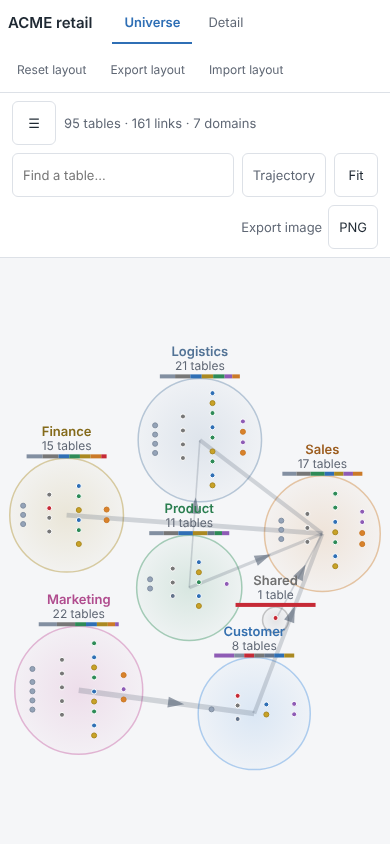
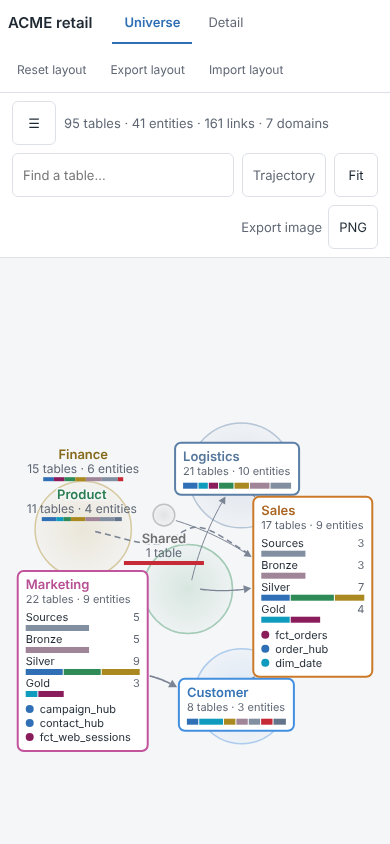
docs(docs): retake the screenshots and close M8
The seven screenshots of the example are retaken on the page as M8
leaves it, and two images of the generated large project join them:
its overview (summary cards, the source systems card, routes) and the
skeleton of its vehicle group. The recipe gives the commands. Progress
records the audit, the fixes that followed and what waits for the
user: the approval of the screenshots, D-072, the points settled
where the brief left them open, and what remains of findings 5 and 6.

Milestone: M8.5

Claude-Session: https://claude.ai/code/session_01SqA5qnr2e821Rq5c737Dbk

diff --git a/docs/progress.md b/docs/progress.md
@@ -38,15 +38,26 @@ Maintained by the `/build-roadmap` skill. Branch: a feature branch per session, 
 | M8.3 Summary cards | done | `f5ac0ce` (+ tests `a7ce2f4`, review fixes `f7e50d5`) | Built per `docs/architecture/2026-11-12-m8.3-summary-cards.md` (D-063, D-064), brief `docs/briefs/2026-11-12-m8-synthesis.md` § 7. **Calibration measured**: star cell 59.3 world px (large) / 53.2 (acme); `k·cell` at Fit: large 9.45 at 1280 × 800 and 5.66 at 360 → cards; acme 23.89 at 1280 → stars, 13.57 at 360 → cards (3 % under the threshold: a phone opens acme on seven readable cards); `SUMMARY_CELL` 14 and `SUMMARY_FADE` 1.3 unchanged. **Measures on the large project at 1280 × 800**: 12 cards at Fit, all at level `rows`, the business cards list 4, 3, 5, 3, 5 main tables; stars drawn at Fit 0 (933 when zoomed in, folded; 1,374 before M8); largest card shift 14 px (26 px at 360); card computation 3.4 ms, card placement 0.3 ms (0.9 ms at 360; about 7 ms median with 50 domains after the cost fix, budget 15); frame 0.7 ms with cards, 4–11 ms mid-fade; filter change 49 ms; page open 341 ms; the 1,500-table payload opens on 30 cards. **Payloads: no change** (reference payloads byte-identical). Reference pages regenerated **twice**: once for the feature (+26.9 kB of assets per page; `none` 171,313 → 198,227 bytes) and once for the review fixes (+1,664 bytes, assets only). Review loop 1: one blocking finding (the "is an entity" rule written twice, now `isEntity`) fixed, plus the empty-pill cards. Suites: default 870 passed / 4 skipped; browser 459 (374 before). **Points settled without the user, to review**: cards sized by content and pushed apart on screen instead of the brief's "about its footprint" (the inscribed rectangle was 92 × 69 px for a 96-table domain: unreadable), so **card size does not show domain size** (counts and the disc behind do, and discs are not ordered by table count: activity 89 has a larger disc than claim 96); one page-wide threshold, not per constellation; no hysteresis; entity clause omitted on cards without entities; a card with too little room keeps the disc's own label instead of a pill; the text summary is a closed `<details>` at the end of the panel; cards stay in `universe.js` (a "Later" line in the roadmap records splitting the file). **Known limits**: mid-fade shows card text over star names for about two wheel notches; on a phone the routes are mostly hidden under cards (M8.4); bars are relative to the card's largest row, so small rows have short bars; trajectory frame colours and the row hover tint are not covered by tests. |
 | M8.4 Source systems apart, readable routes | done | `a64d0dc` (+ tests `5349e2b`, review fixes `45d2cb7`) | Built per `docs/architecture/2026-11-12-m8.4-source-systems-routes.md` (D-065, D-066, D-067), brief § 8. **Measures on the large project** (links `both`, 1280 × 800): routes crossing a constellation they do not start from or end at, at Fit: **24 of 45 before** (straight centre-to-centre routes crossing another card; 22 crossing a disc) → **0 after**; also 0 at the stars scale, with All routes, with the focus on each constellation, in layer mode, and at 360 px with the strongest routes (one `blocked` route at 360 px with All routes; on the 1,500-table payload with all 210 routes about 140 stay `blocked`: no way round exists, they are drawn and flagged). Routes drawn: 9 of 15 at Fit (15 once the system routes are bundled through the group card), 20 of 45 at the stars scale. Cards at Fit: 6 (5 business + 1 group card "7 systems · 504 tables") instead of 12. Fit scale 0.160; route computation 3.1 ms at Fit, 2.7 ms at stars; frame 0.6 ms / 9.5 ms; filter change 43 ms; page open 413 ms; page 943 kB before the review fixes (+ about 4 kB after). Flow order of business domains, mean x by rank: 1042, 1799, 2585, 3113, 3896 (account → vehicle → auction → claim → activity). **Payloads**: each universe domain gains `system` (last key, `false` written out; `true` on `raw` and `staging` of the data_vault reference case and `staging` of star_schema); +59 to +75 bytes. Reference pages regenerated **twice**: once for the feature (+49 kB of assets per page; `none` 199,891 → 249,381 bytes) and once for the review fixes (assets only, about +4 kB). The large test project gained business-to-business lineage (`FLOW` in `tests/large_project.py`; lineage count unchanged at 1,360). The golden acme fixture was regenerated (placement along the flow; stage 6 px shorter since the meta line may wrap). Review loop 1: two blocking findings fixed ("No domain" in the every-domain guard; direction on relations-only routes). Suites: default 901 passed / 4 skipped; browser 547 (459 before; one duplicate test removed in the second review), 0 xfailed. **Points settled without the user, to review**: the rule's gate "the config gives a role to at least one kind" (a no-preset page never has source systems) and "never every domain"; `system` on a domain rule overrides whatever resolved the domain; acme_retail's Shared domain gets `system: false` (a lone calendar seed), so the example has no source system; two routes per constellation instead of the brief's three (three gave a hairball at the stars scale: 27 of 45); route ink `#7b8494`, 1–3 px; the All routes choice is not remembered and has no config key; keyboard focus goes through the Domains rows and the text summary; `flowX` 0.1 (on acme_retail ranks 0 and 1 keep swapped mean x until 0.25, but no directed route runs right to left); business domains are re-placed for every project (unpinned domains move against pre-M8.4 pages; pins and saved arrangements win). **Known limits**: at 360 px on the large project some constellation labels sit detached from their disc (up to about 200 px) and cards drop levels; acme_retail at 360 px shows fewer card rows than in M8.3 (placement spreads the domains); the page shows no count of `blocked` routes (hook only); with All routes at the stars scale parallel system routes bunch into bands; the panel dots of source systems keep their domain colours while the canvas is neutral. **Brief findings 5 and 6**: 5 (layers grouping: the raw vault as one disc, no flow between layers) is partly answered: folding (M8.2) halves the raw vault's stars and the layer card (M8.3) gives its composition by domain, but no flow is drawn between the layers and a relation-driven placement of the raw vault is out of scope; 6 (inside a domain, relations are long lines crossing every column) is partly answered: links of folded tables are no longer drawn inside the domain, but hubs and links are still placed by layer band, not by their relations. |
 | M8.5 Detail skeleton | done | `06de3f1` (+ tests `38b0b1c`, review fixes `42297c8`) | Built per `docs/architecture/2026-11-12-m8.5-detail-skeleton.md` (D-068 to D-072; measurement table and deviations in its § Built), brief § 9. **Shape measured** (1280 × 800, `vehicle`, three inputs; rule of D-071): O1 pack + compress aspect 0.14, refused; **O2 dot with imposed rows, TB: aspect 1.32, 384 ms cold, names 4.45 px at Fit, 6.74 px after three notches**, chosen; O2-LR aspect 0.73 with more crossings; O3 grid + neato 2.5 s, and not finishing on the larger cases; O4 neato and O5 fdp accepted on aspect, names 2.3–3.5 px (after three notches); `sfdp` is not in this Viz.js. **Measures on `vehicle` at 1280 × 800**: tables drawn **283 before (271 own + 12 dashed of other groups) → 148 in the skeleton (136 own + 12 dashed)**; relations drawn 273 → 138; aspect **0.11 → 1.32**; layout 0.38–0.42 s cold / 0.14–0.19 s warm (budget 5 s); names **0.64 px at Fit before → 4.45–4.48 px**, 0.97 → 6.74 px after three wheel notches, 17–18 px after a double-click on a hub (focus: itself, its satellite, its 4 links, the 4 hubs across); "All groups" 367 drawn of 788 in 0.46 s; the 1,500-table case 1.1 s (budget 15 s); page size +14,656 bytes for the feature. **Payload**: each detail entity gains `parent` (last key; null in every reference case), +14 bytes per entity; reference pages regenerated **twice**: once for the feature (`none` 253,443 → 268,099 bytes) and once more for the review fixes (assets only, +765 bytes). Acme's detail DOT is identical to the pre-M8.5 one for every group (`tests/fixtures/acme_retail/detail-dot/`). Review loop 1: two blocking findings fixed (a folded table with no relation was absent from its parent's focus; the fold wording is written in both views). Suites: default 916 passed / 4 skipped; browser 617 passed, run serially as documented (547 before). **Points settled without the user, to review**: **D-072, awaiting the user's confirmation**: the `data_vault` preset's `select` is unchanged, dimensions and facts stay out of the detail by default (adding them would draw an unconnected second block and push `vehicle` to 149 own tables; reversible in one line of `src/dbtscope/presets/data_vault.yml`); the brief's "136 tables or fewer" is read as the group's own tables (12 dashed tables of other groups are drawn too: 148); threshold 60 is a constant, no config key; one fold choice for both views; the folded row's wording ("+ 3 folded tables · Satellite", at most two kinds); a parent in another group or outside the select scope gives no parent in the detail; the focus rule through connectors applies to every page with a connector kind; the skeleton shape applies whenever the scope can fold, even when a kind filter leaves no folded row. **Known limits**: names reach 6.74 px after three wheel notches, under the designer's 8 px goal and above its 6 px floor (the brief's "one double-click **or** three notches" is met by the double-click: 17 px); 120 edge crossings in the `vehicle` skeleton; "All groups" of the large project is a structure overview only (names 2.4 px at Fit); at 360 px the skeleton at Fit is not legible without zooming; the layout depends on the window's aspect, so a position dragged at one window size may overlap at another; titles of tables from other groups can overflow their header (older than M8.5); browser timing tests are reliable only in the documented serial run. **Brief finding 7** (the detail of a large group is an unreadable strip): answered. Findings 5 and 6: as written at M8.4 (partly answered, no flow between layers, no relation-driven placement inside a domain). |
+| M8 close: audit and screenshots | done | `cb44f5c`, `fd7ecc3` | `/audit` on 2026-11-13 (`docs/architecture/2026-11-13-audit.md`): 3 blocking, 22 to fix, 8 suggestions; every blocking and to-fix finding fixed except the one left to the user (the kind of a table decided once for the universe and once for the detail), follow-up in the report. A budget test of a few milliseconds now keeps the first quiet measurement of three (`test_trajectory_perf.steady`), so the whole suite also passes in parallel with coverage (1,533 passed, 4 skipped); no budget changed. The summary's `fold:` row says `441 tables folded into 251 parents` (the page's 428 entities are another count). Retaking the screenshots showed two defects, fixed with D-073: Fit keeps 8 px of margin and a detail drawing at its Fit follows its area when the toolbar wraps; a bare constellation label no longer prints over a card or another label. `docs/images/`: the seven images of the example retaken, `large-overview.png` and `large-detail-skeleton.png` added from the generated large project (recipe in `docs/images/README.md`); `large-stars.png` left out for the 1.2 MB budget. Reference pages regenerated twice more (audit fixes, D-073), assets only, payloads byte-identical. Suites: default 916 passed / 4 skipped; browser 637, run serially |
 
 ## Resume
 
-M8 was asked as "M7" and renumbered M8 (the user agreed on 2026-11-12). M8.1 to M8.5 are done. Next: `/audit`, the documentation screenshots (`docs/images`, brief § 10), the final summary. What remains of findings 5 and 6 (written at M8.4): 5 (layers grouping: the raw vault as one disc, no flow between layers) is partly answered, folding halves the raw vault's stars and the layer card gives its composition, but no flow is drawn between the layers; 6 (inside a domain, relations are long lines crossing every column) is partly answered, links of folded tables are no longer drawn, but hubs and links are still placed by layer band, not by their relations. Finding 7 (the detail of a large group): answered by M8.5.
+M8 was asked as "M7" and renumbered M8 (the user agreed on 2026-11-12). M8.1 to M8.5, the audit and the screenshots are done; nothing is left to build. Not done, on purpose: no pull request and no release (the user asks for them).
+
+**Waiting for the user** (none of it blocks):
+
+- Approve the screenshots: the before / after pairs of the universe at opening, a framed domain, the layers grouping and the detail of the `vehicle` group on the large project (brief § 7 Done-when 4, § 8 Done-when 2), and the nine images of `docs/images/`.
+- Confirm D-072: the `data_vault` preset's `select` is unchanged, dimensions and facts stay out of the detail by default (one line of `src/dbtscope/presets/data_vault.yml` to reverse).
+- Review the points the architect and the ui-designer settled where the brief left them open: listed in the rows M8.1 to M8.5 above ("points settled"), decisions D-058 to D-073.
+- Decide the audit's left finding: one rule for the kind of a table in both views (`domain/universe.py` gives a source, seed or snapshot its built-in kind and the role `technical`; `domain/detail.py` gives it `other`). One rule would change the detail payload of projects that draw sources in the detail.
+- Run what could not run here: the `live` wheel test (`tests/integration/test_wheel.py`, last run at 0.3.0) and the `DBTSCOPE_DBT` check of the example project (no dbt in this environment).
+
+**What remains of the brief's findings.** 5 (layers grouping: the raw vault as one disc, no flow between layers) is partly answered: folding halves the raw vault's stars and the layer card gives its composition by domain, but no flow is drawn between the layers, and the relation-driven placement of the raw vault is out of scope (brief § 3). 6 (inside a domain, relations are long lines crossing every column) is partly answered: links of folded tables are no longer drawn inside the domain, but hubs and links are still placed by layer band, not by their relations. Finding 7 (the detail of a large group) is answered by M8.5; findings 1 to 4 and 8 by M8.1 to M8.4.
 
 ## Open points
 
-- M8.1: the screenshots of `docs/images/` (universe-overview, universe-domain, trajectory, small-screen) still show the pre-M8 page. They are retaken once at the close of M8 (brief § 10), because every phase changes the page and the user approves them.
-- M8.3: the screenshots awaiting the user's approval (brief § 7 Done-when 4) were produced during the review. The committed `docs/images/large-overview.png` and the retake of the existing images are done once at the close of M8, after M8.4 changed the overview again (source-system group card, routes): M8.4 is done, so the retake is due at the close of M8.5.
+- M8: the screenshots of `docs/images/` were retaken on 2026-11-13 and await the user's approval; D-072 awaits the user's confirmation (see Resume).
+
 - M7.4: dbt Fusion's support of the global `--log-level` flag is unchecked.
 
 - M4.1: the export file-name fallback (a title that slugs to nothing) is covered only by browser tests, which do not run in CI.

diff --git a/docs/images/README.md b/docs/images/README.md
@@ -1,16 +1,18 @@
 # Documentation screenshots
 
-Screenshots of the page of the example project `examples/acme_retail`, used by the README and `docs/user-guide.md`. Approved by the user on 2026-11-05 (M6.1, design note `docs/architecture/2026-11-05-m6.1-documentation.md` § 7). Budget, checked by `tests/unit/test_docs.py`: each PNG at most 200 kB, the folder at most 1.2 MB, every image referenced by a document.
+Screenshots of the page of the example project `examples/acme_retail`, used by the README and `docs/user-guide.md`. Approved by the user on 2026-11-05 (M6.1, design note `docs/architecture/2026-11-05-m6.1-documentation.md` § 7); retaken on 2026-11-13 for M8, **the user's approval of this retake is pending**. Budget, checked by `tests/unit/test_docs.py`: each PNG at most 200 kB, the folder at most 1.2 MB, every image referenced by a document.
 
 | File | View and state | Used in |
 |---|---|---|
-| `universe-overview.png` | universe at opening (Fit), names level, every domain | README, user guide § What dbtscope is |
-| `universe-domain.png` | Sales domain framed as a double-click does, keys level | user guide § The universe view |
+| `universe-overview.png` | universe at opening (Fit), names level, every domain, fold on (the example opens on stars) | README, user guide § What dbtscope is |
+| `universe-domain.png` | Sales domain framed as a double-click does, keys level, satellites folded into their entity ("1 folded table") | user guide § The universe view |
+| `large-overview.png` | the generated large Data Vault project at opening (Fit), links `both`: summary cards of the five business domains, the Source systems group card and the routes | user guide § The universe view |
 | `trajectory.png` | trajectory of `fct_orders`, both directions, all levels, then Fit | § Trajectory |
 | `flow.png` | the flow of that trajectory, Fit | § Flow |
-| `detail-vault.png` | detail, group `sales`, key columns, kinds Fact and Dimension unticked (with them the dimension row and the vault block overlap, so no cut keeps every table whole), zoomed out one wheel step from Fit and cut below the last whole row of tables (1280 × 725) | § The detail view |
+| `detail-vault.png` | detail, group `sales`, key columns, kinds Fact and Dimension unticked (with them the dimension row and the vault block overlap, so no cut keeps every table whole), zoomed out one wheel step from Fit and cut below the last whole row of tables (1280 × 765) | § The detail view |
 | `detail-focus.png` | detail, group `customer`, focus on `dim_customer`, direct links, all columns, zoomed out three wheel steps from Fit | § The detail view |
-| `small-screen.png` | universe at 390 × 844, touch, panel closed | § Zoom, pan and touch |
+| `large-detail-skeleton.png` | the large project's detail, group `vehicle`, at opening: the skeleton (hubs and links, satellites folded into a last row), no focus | § The detail view |
+| `small-screen.png` | universe at 390 × 844, touch, panel closed (the example opens on summary cards at this size) | § Zoom, pan and touch |
 
 ## Retaking them
 
@@ -30,3 +32,15 @@ A page milestone that changes what an image shows retakes it. The text of the gu
 3. Optimise: keep the lossless PNG when it is within 200 kB; otherwise quantise it to 256 colours with dithering (for example Pillow: a fast-octree palette, then `quantize(palette=…, dither=FLOYDSTEINBERG)`, saved with `optimize=True`, or `pngquant --quality 70-90`). Look at each image before keeping it: the kind and domain colours must stay true.
 
 The M6.1 images were taken this way by a Playwright script and a Pillow script kept outside the repository (design note § 7, As built). All seven were retaken the same way on 2026-11-05 when the example became a medallion project (bronze, silver and gold layers, domains from schemas).
+
+The large-project images (`large-overview.png`, `large-detail-skeleton.png`) come from the test generator (D-060), at 1280 × 800, device scale 1:
+
+```bash
+SCRATCH=$(mktemp -d)               # any folder outside the repository
+uv run python -c "import sys; sys.path.insert(0, 'tests'); from pathlib import Path; from large_project import write_large_project; write_large_project(Path('$SCRATCH/large'))"
+uv run dbtscope --project-dir "$SCRATCH/large" --no-parse --no-open --offline -o "$SCRATCH/large.html"
+```
+
+`large-overview.png` is the page after 3 s, pointer parked at the bottom right (links `both` is the default); `large-detail-skeleton.png` is the Detail tab with the group `vehicle` selected, once the export buttons are enabled. A third image, one business domain framed by a double-click on its card (stars with badges), was left out: it did not fit the 1.2 MB budget.
+
+The seven M6.1 images were retaken on 2026-11-13 (M8: roles, fold, summary cards, the detail's skeleton); the two large-project images are new. The detail images keep their states, only the kind colours and the Types order changed. All nine were retaken again the same day after D-073 (Fit keeps 8 px on every side; a bare constellation label no longer prints over a card or another label).

diff --git a/docs/user-guide.md b/docs/user-guide.md
@@ -745,6 +745,8 @@ Every model, source, seed and snapshot of the project as a star, grouped into on
   - **For keyboards and screen readers**: the last section of the side panel, **Summary** ("Synthèse"), is closed by default; open it for every card as text, in left-to-right order, with a **Zoom** ("Cadrer") button per domain and one button per row, which zoom like a double-click and a row click.
 - **The same picture every time**: the same project gives the same placement at every generation.
 
+![A large Data Vault project at Fit: five business domains as summary cards, the seven source systems as one Source systems card, and the routes between them](images/large-overview.png)
+
 ![The Sales domain at the keys level: sources and Bronze on the left, then Silver (hubs, links, satellites), then Gold (dimensions and facts)](images/universe-domain.png)
 
 ### Filters and links
@@ -802,6 +804,8 @@ The entity-relationship diagram of one group of tables, drawn by Graphviz.
 - **Columns**: key columns only by default (columns matching `key_columns`, plus every column used by a relation, in bold), with **All columns** for every column. Hover a table for its dbt description.
 - **Highlight**: click a table to highlight its links; type in **Highlight…** to mark tables by name.
 - **Large groups**: when more than 60 tables would be drawn and the kinds have roles ([presets](#conventions-presets-and-preset-files)), each descriptive table (a satellite) is drawn as the last row of its entity: "+ 3 folded tables · Satellite". The drawing keeps the hubs, links and other tables, in rows that fit the drawing area, and shows what it folded in the meta line. The panel's **Fold descriptive tables into their entity** checkbox (shown only for such a group) is the same choice as the universe's: changing it in one view changes the other, the browser remembers it, and `universe.fold` in `dbt-erd.yml` sets how both open. With it off the full drawing is shown and a line warns that it will be hard to read. Double-click a table to draw it with its folded tables; from a hub, **direct links** shows its satellites, its links and the hubs across those links (a link is a passage, not a stop). Groups of 60 tables or fewer are drawn as before. Positions you drag in this drawing are saved apart from the full drawing's.
+
+![A group of 283 tables on opening: the skeleton, hubs and links with their satellites folded into a last row](images/large-detail-skeleton.png)
 
 ![The detail view of the sales group with facts and dimensions unticked: hubs on the left (the customer and product hubs of other groups dashed), their links and satellites on the right](images/detail-vault.png)
 
